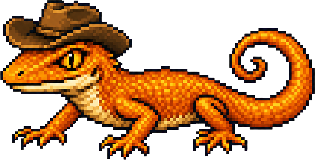
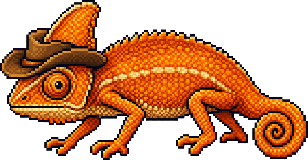
Simplify Django palette selector

diff --git a/site/static/js/theme.js b/site/static/js/theme.js
@@ -3,40 +3,28 @@
 
   var root = document.documentElement;
   var paletteToggle = document.querySelector('.palette-toggle');
-  var palettePicker = document.querySelector('.palette-picker');
+  var paletteMenu = document.querySelector('.palette-menu');
+  var paletteSwatches = Array.prototype.slice.call(document.querySelectorAll('.palette-swatch'));
   var soundToggle = document.querySelector('.sound-toggle');
   var roach = document.querySelector('.blue-roach');
   var song = document.querySelector('.blue-song');
+
+  var palettes = {
+    white:  { bg: '#ffffff', button: '#ff5a00', buttonHover: '#ff7a2e', buttonText: '#111111', hue: 30 },
+    red:    { bg: '#c62828', button: '#28c6c6', buttonHover: '#5adede', buttonText: '#111111', hue: 0 },
+    orange: { bg: '#ef6c00', button: '#0067cc', buttonHover: '#2788e8', buttonText: '#ffffff', hue: 28 },
+    yellow: { bg: '#f7d038', button: '#4930c7', buttonHover: '#6650de', buttonText: '#ffffff', hue: 48 },
+    green:  { bg: '#16823b', button: '#d735a8', buttonHover: '#eb62c4', buttonText: '#ffffff', hue: 140 },
+    blue:   { bg: '#003cff', button: '#ff6800', buttonHover: '#ff8b3d', buttonText: '#111111', hue: 226 },
+    purple: { bg: '#6b35a8', button: '#8dcc35', buttonHover: '#a8df5e', buttonText: '#111111', hue: 272 },
+    black:  { bg: '#111111', button: '#ff5a00', buttonHover: '#ff7a2e', buttonText: '#111111', hue: 30 }
+  };
 
   function hexToRgb(hex) {
     return {
       r: parseInt(hex.slice(1, 3), 16),
       g: parseInt(hex.slice(3, 5), 16),
       b: parseInt(hex.slice(5, 7), 16)
-    };
-  }
-
-  function rgbToHsl(rgb) {
-    var r = rgb.r / 255;
-    var g = rgb.g / 255;
-    var b = rgb.b / 255;
-    var max = Math.max(r, g, b);
-    var min = Math.min(r, g, b);
-    var delta = max - min;
-    var hue = 0;
-
-    if (delta) {
-      if (max === r) hue = ((g - b) / delta) % 6;
-      if (max === g) hue = (b - r) / delta + 2;
-      if (max === b) hue = (r - g) / delta + 4;
-      hue = Math.round(hue * 60);
-      if (hue < 0) hue += 360;
-    }
-
-    return {
-      h: hue,
-      s: delta === 0 ? 0 : delta / (1 - Math.abs(max + min - 1)),
-      l: (max + min) / 2
     };
   }
 
@@ -49,10 +37,6 @@
       channel(rgb.r, target.r) + ' ' +
       channel(rgb.g, target.g) + ' ' +
       channel(rgb.b, target.b) + ')';
-  }
-
-  function isBlue(hsl) {
-    return hsl.h >= 195 && hsl.h <= 255 && hsl.s >= 0.35;
   }
 
   function updateSoundToggle() {
@@ -81,29 +65,43 @@
     roach.play().catch(function () {});
   }
 
-  function applyPalette(color, persist) {
-    var rgb = hexToRgb(color);
-    var hsl = rgbToHsl(rgb);
-    var blue = isBlue(hsl);
-    var dark = hsl.l < 0.48;
+  function setMenuOpen(open) {
+    paletteMenu.hidden = !open;
+    paletteToggle.setAttribute('aria-expanded', String(open));
+  }
+
+  function applyPalette(name, persist) {
+    var palette = palettes[name] || palettes.white;
+    var rgb = hexToRgb(palette.bg);
+    var blue = name === 'blue';
+    var dark = name === 'red' || name === 'orange' || name === 'green' || name === 'blue' || name === 'purple' || name === 'black';
     var priorBlue = root.getAttribute('data-theme') === 'dark';
+    var mascotRotation = name === 'white' || name === 'black' ? 0 : palette.hue - 30;
 
     root.setAttribute('data-theme', blue ? 'dark' : 'light');
-    root.style.setProperty('--bg', color);
+    root.style.setProperty('--bg', palette.bg);
     root.style.setProperty('--bg-shade', mix(rgb, dark ? { r: 255, g: 255, b: 255 } : { r: 0, g: 0, b: 0 }, 0.12));
     root.style.setProperty('--fg', dark ? '#f5f7fa' : '#202020');
     root.style.setProperty('--muted', dark ? '#d2d7df' : '#555555');
     root.style.setProperty('--link', dark ? '#ffffff' : '#0000cc');
-    root.style.setProperty('--link-hover', dark ? '#ffdd9a' : '#000066');
+    root.style.setProperty('--link-hover', dark ? '#fff0b8' : '#000066');
     root.style.setProperty('--border', mix(rgb, dark ? { r: 255, g: 255, b: 255 } : { r: 0, g: 0, b: 0 }, 0.35));
-    root.style.setProperty('--mascot-filter', 'hue-rotate(' + (hsl.h - 30) + 'deg) saturate(1.15)');
-    palettePicker.value = color;
+    root.style.setProperty('--accent', palette.button);
+    root.style.setProperty('--button-face', palette.button);
+    root.style.setProperty('--button-hover', palette.buttonHover);
+    root.style.setProperty('--button-text', palette.buttonText);
+    root.style.setProperty('--mascot-filter', 'hue-rotate(' + mascotRotation + 'deg) saturate(1.1)');
+
+    paletteSwatches.forEach(function (swatch) {
+      swatch.setAttribute('aria-pressed', String(swatch.dataset.palette === name));
+    });
 
     if (priorBlue && !blue) stopAll();
 
     if (persist) {
       try {
-        window.localStorage.setItem('paletteColor', color);
+        window.localStorage.setItem('paletteName', name);
+        window.localStorage.removeItem('paletteColor');
         window.localStorage.removeItem('theme');
       } catch (error) {
         // The palette still works when storage is blocked.
@@ -112,11 +110,26 @@
   }
 
   paletteToggle.addEventListener('click', function () {
-    palettePicker.click();
+    setMenuOpen(paletteMenu.hidden);
   });
 
-  palettePicker.addEventListener('input', function () {
-    applyPalette(palettePicker.value, true);
+  paletteSwatches.forEach(function (swatch) {
+    swatch.addEventListener('click', function () {
+      applyPalette(swatch.dataset.palette, true);
+      setMenuOpen(false);
+      paletteToggle.focus();
+    });
+  });
+
+  document.addEventListener('click', function (event) {
+    if (!paletteMenu.hidden && !event.target.closest('.site-brand')) setMenuOpen(false);
+  });
+
+  document.addEventListener('keydown', function (event) {
+    if (event.key === 'Escape') {
+      setMenuOpen(false);
+      paletteToggle.focus();
+    }
   });
 
   soundToggle.addEventListener('click', function () {
@@ -139,12 +152,13 @@
   });
 
   try {
-    var savedColor = window.localStorage.getItem('paletteColor');
-    if (!savedColor && window.localStorage.getItem('theme') === 'dark') savedColor = '#002bff';
-    applyPalette(savedColor || '#ffffff', false);
+    var savedPalette = window.localStorage.getItem('paletteName');
+    if (!savedPalette && window.localStorage.getItem('theme') === 'dark') savedPalette = 'blue';
+    applyPalette(savedPalette || 'white', false);
   } catch (error) {
-    applyPalette('#ffffff', false);
+    applyPalette('white', false);
   }
 
+  setMenuOpen(false);
   updateSoundToggle();
 })();

diff --git a/site/assets/css/retro.css b/site/assets/css/retro.css
@@ -11,6 +11,9 @@
   --chrome-shadow: #3f3f3f;
   --chrome-text: #171717;
   --accent: #ff5a00;
+  --button-face: #ff5a00;
+  --button-hover: #ff7a2e;
+  --button-text: #111111;
   --page-pattern: url("/bg-circuit.svg");
   --pattern-size: 180px auto;
 }
@@ -143,6 +146,7 @@ a:hover {
 }
 
 .site-brand {
+  position: relative;
   display: inline-flex;
   align-items: center;
   gap: 0.4rem;
@@ -164,14 +168,42 @@ a:hover {
   outline-offset: 2px;
 }
 
-.palette-picker {
-  position: fixed;
-  width: 1px;
-  height: 1px;
-  overflow: hidden;
-  clip-path: inset(50%);
-  opacity: 0;
-  pointer-events: none;
+.palette-menu {
+  position: absolute;
+  top: calc(100% + 0.35rem);
+  left: 0.35rem;
+  z-index: 30;
+  display: grid;
+  grid-template-columns: repeat(4, 1.6rem);
+  gap: 0.25rem;
+  padding: 0.35rem;
+  border: 2px outset var(--chrome-light);
+  background: var(--chrome-face);
+  box-shadow: 2px 2px 0 var(--chrome-shadow);
+}
+
+.palette-menu[hidden] {
+  display: none;
+}
+
+.palette-swatch {
+  appearance: none;
+  width: 1.6rem;
+  height: 1.35rem;
+  border: 2px outset var(--chrome-light);
+  background: var(--swatch);
+  cursor: pointer;
+}
+
+.palette-swatch:hover,
+.palette-swatch:focus-visible,
+.palette-swatch[aria-pressed="true"] {
+  outline: 2px solid var(--accent);
+  outline-offset: 1px;
+}
+
+.palette-swatch:active {
+  border-style: inset;
 }
 
 .site-mascot {
@@ -209,9 +241,9 @@ a:hover {
   min-height: 1.2rem;
   padding: 0.1rem 0.3rem;
   border: 2px outset var(--chrome-light);
-  background: var(--chrome-face);
+  background: var(--button-face);
   box-shadow: inset 3px 0 0 var(--accent), inset 0 0 0 1px var(--chrome-shadow), 1px 1px 0 var(--chrome-shadow);
-  color: var(--chrome-text);
+  color: var(--button-text);
   font: bold 0.56rem Verdana, Arial, sans-serif;
   line-height: 1;
   text-decoration: none;
@@ -221,8 +253,8 @@ a:hover {
 
 .site-nav a:hover,
 .sound-toggle:hover {
-  background: var(--accent);
-  color: #111111;
+  background: var(--button-hover);
+  color: var(--button-text);
 }
 
 .sound-toggle {
@@ -252,12 +284,12 @@ a:hover {
 [data-theme="dark"] .sound-toggle {
   visibility: visible;
   pointer-events: auto;
-  background: var(--accent);
+  background: var(--button-face);
   animation: sound-alert 0.8s steps(2, end) infinite;
 }
 
 [data-theme="dark"] .sound-toggle.is-playing {
-  background: var(--chrome-face);
+  background: var(--button-face);
   animation: none;
 }
 

diff --git a/site/layouts/_default/baseof.html b/site/layouts/_default/baseof.html
@@ -20,12 +20,21 @@
     <div class="container">
       <div class="site-brand">
         <button class="palette-toggle" type="button" title="Choose the site color palette" aria-label="Choose the site color palette">
-          <img class="site-mascot" src="{{ site.BaseURL }}media/django-mascot.png" alt="Django, an orange cowboy lizard" width="72" height="48">
+          <img class="site-mascot" src="{{ site.BaseURL }}media/django-mascot.png" alt="Django, an orange cowboy chameleon" width="72" height="48">
         </button>
         <a class="site-identity" href="{{ site.BaseURL }}">
           <span class="site-title">{{ site.Params.author }}</span>
         </a>
-        <input class="palette-picker" type="color" value="#ffffff" aria-label="Site color palette">
+        <div class="palette-menu" hidden aria-label="Choose a site palette">
+          <button class="palette-swatch" type="button" data-palette="white" style="--swatch: #ffffff" aria-label="White palette"></button>
+          <button class="palette-swatch" type="button" data-palette="red" style="--swatch: #c62828" aria-label="Red palette"></button>
+          <button class="palette-swatch" type="button" data-palette="orange" style="--swatch: #ef6c00" aria-label="Orange palette"></button>
+          <button class="palette-swatch" type="button" data-palette="yellow" style="--swatch: #f7d038" aria-label="Yellow palette"></button>
+          <button class="palette-swatch" type="button" data-palette="green" style="--swatch: #16823b" aria-label="Green palette"></button>
+          <button class="palette-swatch" type="button" data-palette="blue" style="--swatch: #003cff" aria-label="Blue palette"></button>
+          <button class="palette-swatch" type="button" data-palette="purple" style="--swatch: #6b35a8" aria-label="Purple palette"></button>
+          <button class="palette-swatch" type="button" data-palette="black" style="--swatch: #111111" aria-label="Black palette"></button>
+        </div>
       </div>
       <nav class="site-nav">
         <a href="{{ site.BaseURL }}">home</a>